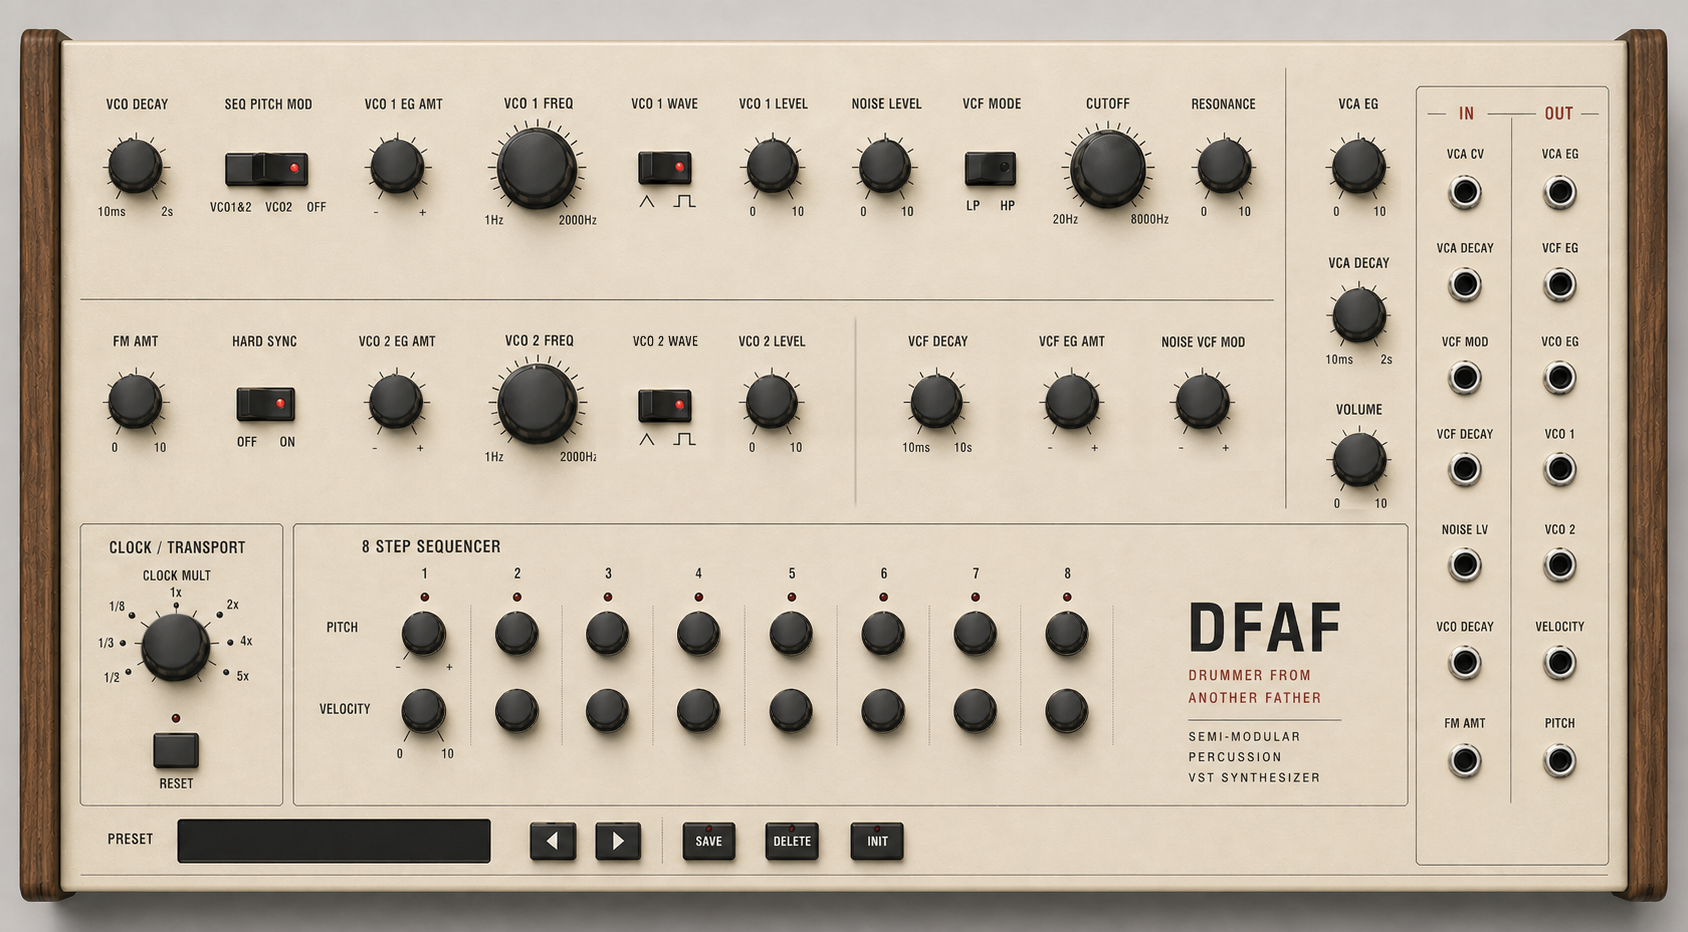
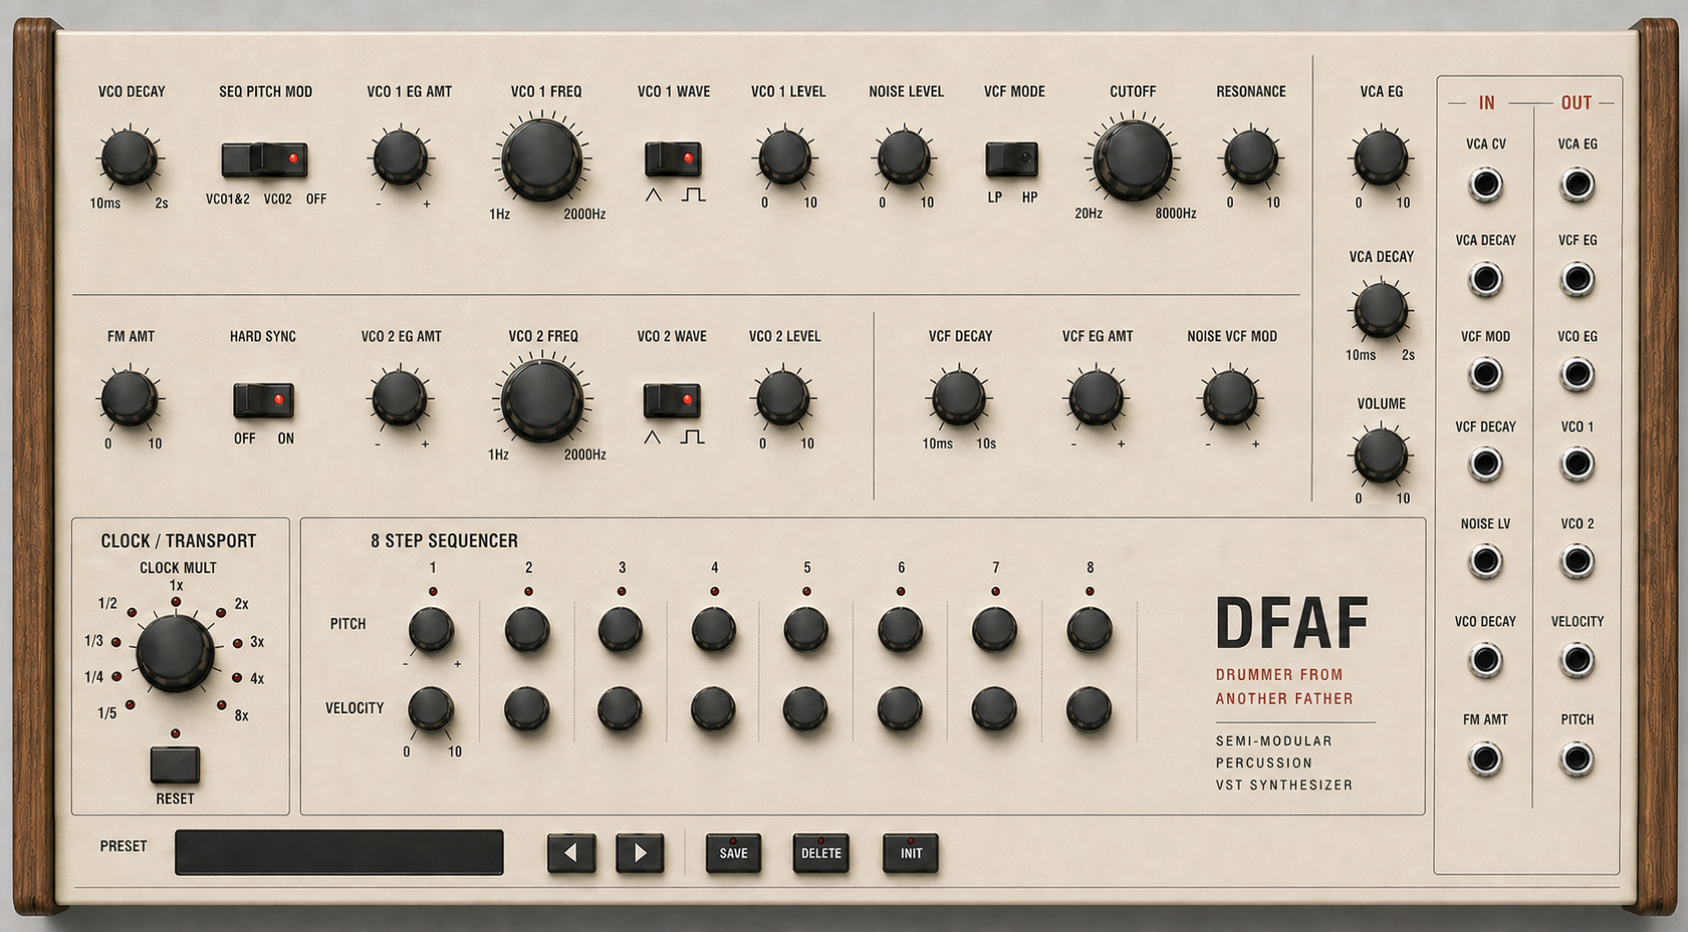
Fix updated panel control mapping

Changed region(s): [[0.0, 0.0, 1.0, 1.0], [0.2156, 0.5601, 0.3081, 0.5912]]

diff --git a/Source/PluginEditor.cpp b/Source/PluginEditor.cpp
@@ -224,7 +224,16 @@ void DFAFLookAndFeel::drawRotarySlider(juce::Graphics& g, int x, int y, int widt
 
     const float angle = rotaryStartAngle + sliderPos * (rotaryEndAngle - rotaryStartAngle);
     const float offset = (float) slider.getProperties().getWithDefault("panelIndicatorOffset", 0.0);
-    const float indicatorAngle = angle - juce::MathConstants<float>::halfPi + offset;
+    float indicatorAngle = angle - juce::MathConstants<float>::halfPi + offset;
+    if (slider.getProperties().getWithDefault("clockMultIndicator", false))
+    {
+        constexpr std::array<float, 9> clockMultDegrees {
+             133.0f, 161.0f, -167.0f, -136.0f, -90.0f,
+             -44.0f, -12.0f,   19.0f,   47.0f
+        };
+        const int index = juce::jlimit(0, 8, juce::roundToInt(slider.getValue()));
+        indicatorAngle = juce::degreesToRadians(clockMultDegrees[(size_t) index]);
+    }
     const float innerR = diameter * (float) slider.getProperties().getWithDefault("panelIndicatorInner", 0.08);
     const float outerR = diameter * (float) slider.getProperties().getWithDefault("panelIndicatorOuter", 0.28);
     const float lineWidth = (float) slider.getProperties().getWithDefault("panelIndicatorWidth", 3.0);
@@ -489,19 +498,13 @@ DFAFEditor::DFAFEditor(DFAFProcessor& p)
     };
     addAndMakeVisible(vcfModeButton);
 
-    clockMultBox.addItem("1/8", 1);
-    clockMultBox.addItem("1/5", 2);
-    clockMultBox.addItem("1/4", 3);
-    clockMultBox.addItem("1/3", 4);
-    clockMultBox.addItem("1/2", 5);
-    clockMultBox.addItem("1X", 6);
-    clockMultBox.addItem("2X", 7);
-    clockMultBox.addItem("3X", 8);
-    clockMultBox.addItem("4X", 9);
-    clockMultBox.addItem("5X", 10);
-    clockMultBox.setComponentID(kPanelControlId);
-    clockMultBox.onChange = [this]() { repaint(); };
-    addAndMakeVisible(clockMultBox);
+    setupKnob(clockMult);
+    clockMult.setRange(0.0, 8.0, 1.0);
+    clockMult.setDoubleClickReturnValue(true, 4.0);
+    clockMult.setMouseDragSensitivity(180);
+    clockMult.getProperties().set("panelIndicatorOuter", 0.33);
+    clockMult.getProperties().set("clockMultIndicator", true);
+    addAndMakeVisible(clockMult);
 
     for (int i = 0; i < 8; ++i)
     {
@@ -538,7 +541,7 @@ DFAFEditor::DFAFEditor(DFAFProcessor& p)
     vcaDecayAtt = std::make_unique<SliderAttachment>(apvts, "vcaDecay", vcaDecay);
     vcaEgAtt = std::make_unique<SliderAttachment>(apvts, "vcaEg", vcaEg);
     volumeAtt = std::make_unique<SliderAttachment>(apvts, "volume", volume);
-    clockMultBoxAtt = std::make_unique<juce::AudioProcessorValueTreeState::ComboBoxAttachment>(apvts, "clockMult", clockMultBox);
+    clockMultAtt = std::make_unique<SliderAttachment>(apvts, "clockMult", clockMult);
 
     for (int i = 0; i < 8; ++i)
     {
@@ -702,9 +705,9 @@ juce::Point<int> DFAFEditor::getJackCentre(PatchPoint pp) const
 {
     const auto inputs = inputOrder();
     const auto outputs = outputOrder();
-    constexpr std::array<float, 7> ys { 191.0f, 284.0f, 377.0f, 468.0f, 564.0f, 662.0f, 760.0f };
-    constexpr float inX = 1465.0f;
-    constexpr float outX = 1560.0f;
+    constexpr std::array<float, 7> ys { 183.0f, 278.0f, 373.0f, 463.0f, 560.0f, 659.0f, 758.0f };
+    constexpr float inX = 1486.0f;
+    constexpr float outX = 1577.0f;
 
     for (int i = 0; i < 7; ++i)
     {
@@ -982,23 +985,23 @@ void DFAFEditor::setupKnob(juce::Slider& s, bool small)
 void DFAFEditor::drawPanelSwitches(juce::Graphics& g) const
 {
     const int seqPitchModIndex = seqPitchModPanelIndex(seqPitchModBox.getSelectedItemIndex());
-    drawPanelToggle(g, mapPanelRect(225.0f, 153.0f, 83.0f, 34.0f).toFloat(),
+    drawPanelToggle(g, mapPanelRect(222.0f, 143.0f, 86.0f, 37.0f).toFloat(),
                     seqPitchModIndex, 3);
 
-    drawPanelToggle(g, mapPanelRect(639.0f, 152.0f, 53.0f, 33.0f).toFloat(),
+    drawPanelToggle(g, mapPanelRect(645.0f, 142.0f, 57.0f, 36.0f).toFloat(),
                     wavePanelIndex(vco1WaveBox.getSelectedItemIndex()), 2);
-    drawPanelToggle(g, mapPanelRect(965.0f, 153.0f, 51.0f, 33.0f).toFloat(),
+    drawPanelToggle(g, mapPanelRect(986.0f, 143.0f, 52.0f, 35.0f).toFloat(),
                     juce::jlimit(0, 1, vcfModeBox.getSelectedItemIndex()), 2);
 
-    drawPanelToggle(g, mapPanelRect(237.0f, 388.0f, 58.0f, 34.0f).toFloat(),
+    drawPanelToggle(g, mapPanelRect(234.0f, 383.0f, 60.0f, 36.0f).toFloat(),
                     juce::jlimit(0, 1, hardSyncBox.getSelectedItemIndex()), 2);
 
-    drawPanelToggle(g, mapPanelRect(638.0f, 389.0f, 55.0f, 34.0f).toFloat(),
+    drawPanelToggle(g, mapPanelRect(644.0f, 384.0f, 57.0f, 35.0f).toFloat(),
                     wavePanelIndex(vco2WaveBox.getSelectedItemIndex()), 2);
 
     if (resetLedActive)
     {
-        auto led = mapPanelRect(171.0f, 714.0f, 9.0f, 9.0f).toFloat();
+        auto led = mapPanelRect(171.0f, 729.0f, 9.0f, 9.0f).toFloat();
         g.setColour(kLedRed.withAlpha(0.28f));
         g.fillEllipse(led.expanded(5.0f));
         g.setColour(kLedRed);
@@ -1008,8 +1011,8 @@ void DFAFEditor::drawPanelSwitches(juce::Graphics& g) const
 
 void DFAFEditor::drawPresetDisplay(juce::Graphics& g) const
 {
-    auto screenArea = mapPanelRect(178.0f, 819.0f, 313.0f, 44.0f).toFloat();
-    auto textArea = mapPanelRect(202.0f, 824.0f, 270.0f, 31.0f).toFloat();
+    auto screenArea = mapPanelRect(175.0f, 830.0f, 329.0f, 45.0f).toFloat();
+    auto textArea = mapPanelRect(199.0f, 836.0f, 282.0f, 32.0f).toFloat();
     auto selectedId = presetBox.getSelectedId();
     if (selectedId == 0)
         selectedId = kPresetInitId;
@@ -1095,62 +1098,63 @@ void DFAFEditor::resized()
         slider.setBounds(mapPanelRect(cx - size * 0.5f, cy - size * 0.5f, size, size));
     };
 
-    setKnobCentre(vcoDecay, 136.0f, 169.0f, 62.0f);
-    vcoDecay.getProperties().set("panelIndicatorCentreX", -2.0);
-    vcoDecay.getProperties().set("panelIndicatorCentreY", -2.0);
-    setKnobCentre(vco1EgAmount, 398.0f, 169.0f, 62.0f);
-    vco1EgAmount.getProperties().set("panelIndicatorCentreX", -1.0);
-    setKnobCentre(vco1Frequency, 539.0f, 169.0f, 82.0f);
-    vco1Frequency.getProperties().set("panelIndicatorCentreX", -1.5);
+    setKnobCentre(vcoDecay, 132.5f, 160.0f, 62.0f);
+    vcoDecay.getProperties().set("panelIndicatorCentreX", 0.0);
+    vcoDecay.getProperties().set("panelIndicatorCentreY", 0.0);
+    setKnobCentre(vco1EgAmount, 399.0f, 159.5f, 62.0f);
+    vco1EgAmount.getProperties().set("panelIndicatorCentreX", 0.0);
+    setKnobCentre(vco1Frequency, 543.0f, 161.0f, 82.0f);
+    vco1Frequency.getProperties().set("panelIndicatorCentreX", 0.0);
     vco1Frequency.getProperties().set("panelIndicatorCentreY", 0.0);
-    setKnobCentre(vco1Level, 773.0f, 169.0f, 60.0f);
-    setKnobCentre(noiseLevel, 886.0f, 170.0f, 60.0f);
-    setKnobCentre(cutoff, 1110.0f, 170.0f, 78.0f);
-    setKnobCentre(resonance, 1225.0f, 169.0f, 62.0f);
-    setKnobCentre(vcaEg, 1360.0f, 170.0f, 62.0f);
+    setKnobCentre(vco1Level, 785.0f, 159.0f, 60.0f);
+    setKnobCentre(noiseLevel, 905.0f, 160.5f, 60.0f);
+    setKnobCentre(cutoff, 1134.0f, 165.0f, 78.0f);
+    setKnobCentre(resonance, 1252.0f, 160.5f, 62.0f);
+    setKnobCentre(vcaEg, 1381.5f, 160.5f, 62.0f);
 
-    setKnobCentre(fmAmount, 136.0f, 404.0f, 62.0f);
-    fmAmount.getProperties().set("panelIndicatorCentreX", -2.0);
-    fmAmount.getProperties().set("panelIndicatorCentreY", -2.0);
-    setKnobCentre(vco2EgAmount, 396.0f, 404.0f, 62.0f);
-    vco2EgAmount.getProperties().set("panelIndicatorCentreX", -1.0);
-    setKnobCentre(vco2Frequency, 540.0f, 405.0f, 82.0f);
-    vco2Frequency.getProperties().set("panelIndicatorCentreX", -1.5);
+    setKnobCentre(fmAmount, 130.0f, 400.5f, 62.0f);
+    fmAmount.getProperties().set("panelIndicatorCentreX", 0.0);
+    fmAmount.getProperties().set("panelIndicatorCentreY", 0.0);
+    setKnobCentre(vco2EgAmount, 399.5f, 400.0f, 62.0f);
+    vco2EgAmount.getProperties().set("panelIndicatorCentreX", 0.0);
+    setKnobCentre(vco2Frequency, 543.5f, 401.5f, 82.0f);
+    vco2Frequency.getProperties().set("panelIndicatorCentreX", 0.0);
     vco2Frequency.getProperties().set("panelIndicatorCentreY", 0.0);
-    setKnobCentre(vco2Level, 772.0f, 405.0f, 60.0f);
-    setKnobCentre(vcfDecay, 936.0f, 405.0f, 62.0f);
-    setKnobCentre(vcfEgAmount, 1074.0f, 404.0f, 62.0f);
-    setKnobCentre(noiseVcfMod, 1204.0f, 404.0f, 62.0f);
-    setKnobCentre(vcaDecay, 1360.0f, 317.0f, 62.0f);
+    setKnobCentre(vco2Level, 783.5f, 401.0f, 60.0f);
+    setKnobCentre(vcfDecay, 960.0f, 401.0f, 62.0f);
+    setKnobCentre(vcfEgAmount, 1096.5f, 400.5f, 62.0f);
+    setKnobCentre(noiseVcfMod, 1230.5f, 401.0f, 62.0f);
+    setKnobCentre(vcaDecay, 1381.5f, 313.5f, 62.0f);
 
-    setKnobCentre(volume, 1360.0f, 462.0f, 62.0f);
-    clockMultBox.setBounds(mapPanelRect(118.0f, 594.0f, 116.0f, 90.0f));
-    resetButton.setBounds(mapPanelRect(154.0f, 733.0f, 45.0f, 36.0f));
+    setKnobCentre(volume, 1381.5f, 458.0f, 62.0f);
+    setKnobCentre(clockMult, 176.0f, 656.5f, 88.0f);
+    resetButton.setBounds(mapPanelRect(151.0f, 747.0f, 49.0f, 37.0f));
 
-    seqPitchModBox.setBounds(mapPanelRect(225.0f, 153.0f, 83.0f, 66.0f));
+    seqPitchModBox.setBounds(mapPanelRect(222.0f, 143.0f, 86.0f, 76.0f));
     seqPitchModButton.setBounds(seqPitchModBox.getBounds());
-    vco1WaveBox.setBounds(mapPanelRect(639.0f, 152.0f, 53.0f, 73.0f));
+    vco1WaveBox.setBounds(mapPanelRect(645.0f, 142.0f, 57.0f, 83.0f));
     vco1WaveButton.setBounds(vco1WaveBox.getBounds());
-    vcfModeBox.setBounds(mapPanelRect(965.0f, 153.0f, 51.0f, 73.0f));
+    vcfModeBox.setBounds(mapPanelRect(986.0f, 143.0f, 52.0f, 83.0f));
     vcfModeButton.setBounds(vcfModeBox.getBounds());
-    hardSyncBox.setBounds(mapPanelRect(237.0f, 388.0f, 58.0f, 66.0f));
+    hardSyncBox.setBounds(mapPanelRect(234.0f, 383.0f, 60.0f, 71.0f));
     hardSyncButton.setBounds(hardSyncBox.getBounds());
-    vco2WaveBox.setBounds(mapPanelRect(638.0f, 389.0f, 55.0f, 71.0f));
+    vco2WaveBox.setBounds(mapPanelRect(644.0f, 384.0f, 57.0f, 76.0f));
     vco2WaveButton.setBounds(vco2WaveBox.getBounds());
 
-    constexpr std::array<float, 8> stepXs { 424.0f, 517.0f, 608.0f, 699.0f,
-                                            792.0f, 884.0f, 976.0f, 1067.0f };
+    constexpr std::array<float, 8> stepPitchXs { 431.5f, 527.0f, 620.5f, 713.5f,
+                                                 806.0f, 900.0f, 994.5f, 1089.5f };
+    constexpr std::array<float, 8> stepVelocityXs { 431.0f, 527.0f, 620.0f, 713.0f,
+                                                    805.0f, 900.0f, 994.5f, 1089.0f };
     for (int i = 0; i < 8; ++i)
     {
-        const float cx = stepXs[(size_t) i];
-        setKnobCentre(stepPitch[i], cx, 635.0f, 50.0f);
-        setKnobCentre(stepVelocity[i], cx, 712.0f, 50.0f);
+        setKnobCentre(stepPitch[i], stepPitchXs[(size_t) i], 631.5f, 50.0f);
+        setKnobCentre(stepVelocity[i], stepVelocityXs[(size_t) i], 711.0f, 50.0f);
     }
 
-    presetBox.setBounds(mapPanelRect(178.0f, 819.0f, 313.0f, 44.0f));
-    presetPrevButton.setBounds(mapPanelRect(530.0f, 823.0f, 47.0f, 38.0f));
-    presetNextButton.setBounds(mapPanelRect(596.0f, 822.0f, 45.0f, 39.0f));
-    presetSaveButton.setBounds(mapPanelRect(683.0f, 823.0f, 53.0f, 38.0f));
-    presetDeleteButton.setBounds(mapPanelRect(766.0f, 823.0f, 53.0f, 38.0f));
-    presetInitButton.setBounds(mapPanelRect(851.0f, 823.0f, 49.0f, 38.0f));
+    presetBox.setBounds(mapPanelRect(175.0f, 830.0f, 329.0f, 45.0f));
+    presetPrevButton.setBounds(mapPanelRect(548.0f, 834.0f, 48.0f, 39.0f));
+    presetNextButton.setBounds(mapPanelRect(616.0f, 834.0f, 48.0f, 39.0f));
+    presetSaveButton.setBounds(mapPanelRect(706.0f, 834.0f, 55.0f, 39.0f));
+    presetDeleteButton.setBounds(mapPanelRect(793.0f, 834.0f, 56.0f, 39.0f));
+    presetInitButton.setBounds(mapPanelRect(883.0f, 834.0f, 56.0f, 39.0f));
 }

diff --git a/Source/PluginProcessor.cpp b/Source/PluginProcessor.cpp
@@ -46,7 +46,7 @@ juce::AudioProcessorValueTreeState::ParameterLayout DFAFProcessor::createParamet
     params.push_back(std::make_unique<juce::AudioParameterFloat>("preTrim",     "Pre Trim",      0.1f,  2.0f,    0.84f));
     params.push_back(std::make_unique<juce::AudioParameterFloat>("volume",      "Volume",        0.0f,  1.0f,    0.8f));
     params.push_back(std::make_unique<juce::AudioParameterChoice>("clockMult", "Clock Multiplier",
-                juce::StringArray({ "1/8", "1/5", "1/4", "1/3", "1/2", "1x", "2x", "3x", "4x", "5x" }), 5));
+                juce::StringArray({ "1/5", "1/4", "1/3", "1/2", "1x", "2x", "3x", "4x", "8x" }), 4));
     for (int i = 0; i < 8; ++i)
         {
             params.push_back(std::make_unique<juce::AudioParameterFloat>(
@@ -556,8 +556,10 @@ void DFAFProcessor::processBlock(juce::AudioBuffer<float>& buffer, juce::MidiBuf
                 }
             }
 
-    int multIndex = (int)apvts.getRawParameterValue("clockMult")->load();
-            const float multTable[] = { 8.0f, 5.0f, 4.0f, 3.0f, 2.0f, 1.0f, 0.5f, 1.0f/3.0f, 0.25f, 0.2f };
+    int multIndex = juce::jlimit(0, 8, (int)apvts.getRawParameterValue("clockMult")->load());
+            const bool clockMultChanged = lastClockMultIndex >= 0 && multIndex != lastClockMultIndex;
+            lastClockMultIndex = multIndex;
+            const float multTable[] = { 5.0f, 4.0f, 3.0f, 2.0f, 1.0f, 0.5f, 1.0f/3.0f, 0.25f, 0.125f };
             float mult = multTable[multIndex];
             float ppqPerStep = 0.25f * mult;
     float cutoffVal   = apvts.getRawParameterValue("cutoff")->load();
@@ -636,6 +638,7 @@ void DFAFProcessor::processBlock(juce::AudioBuffer<float>& buffer, juce::MidiBuf
 
     auto* left  = buffer.getWritePointer(0);
     auto* right = buffer.getWritePointer(1);
+    bool clockMultChangePending = clockMultChanged;
 
     for (int i = 0; i < buffer.getNumSamples(); ++i)
     {
@@ -659,6 +662,18 @@ void DFAFProcessor::processBlock(juce::AudioBuffer<float>& buffer, juce::MidiBuf
                 sequencerStepOffset = (targetStep - hostStep + DFAFSequencer::numSteps) % DFAFSequencer::numSteps;
                 sequencerResetArmed = false;
                 lastStep = -1;
+            }
+
+            if (clockMultChangePending && !transportJustStarted && !sequencerResetArmed)
+            {
+                const int heldStep = sequencer.getCurrentStep();
+                if (heldStep >= 0)
+                {
+                    sequencerStepOffset = (heldStep - hostStep + DFAFSequencer::numSteps) % DFAFSequencer::numSteps;
+                    lastStep = heldStep;
+                }
+
+                clockMultChangePending = false;
             }
 
             wasHostPlaying = true;

diff --git a/Source/PluginEditor.h b/Source/PluginEditor.h
@@ -63,7 +63,7 @@ private:
     juce::Slider fmAmount, vco2EgAmount, vco2Frequency;
     juce::Slider vco2Level, vcfDecay, vcfEgAmount, noiseVcfMod, vcaDecay;
 
-    juce::ComboBox clockMultBox;
+    juce::Slider clockMult;
     juce::Slider stepPitch[8];
     juce::Slider stepVelocity[8];
     juce::ComboBox vco1WaveBox, vco2WaveBox, vcfModeBox;
@@ -115,7 +115,7 @@ private:
     std::unique_ptr<SliderAttachment> noiseLevelAtt, cutoffAtt, resonanceAtt;
     std::unique_ptr<SliderAttachment> vcfDecayAtt, vcfEgAmtAtt, noiseVcfModAtt;
     std::unique_ptr<SliderAttachment> vcaDecayAtt, vcaEgAtt, volumeAtt;
-    std::unique_ptr<juce::AudioProcessorValueTreeState::ComboBoxAttachment> clockMultBoxAtt;
+    std::unique_ptr<SliderAttachment> clockMultAtt;
     std::unique_ptr<SliderAttachment> stepPitchAtt[8], stepVelAtt[8];
 
     JUCE_DECLARE_NON_COPYABLE_WITH_LEAK_DETECTOR(DFAFEditor)

diff --git a/Source/PluginProcessor.h b/Source/PluginProcessor.h
@@ -117,6 +117,7 @@ public:
     // Sequencer clock state
     int  lastStep            = -1;
     int  sequencerStepOffset = 0;
+    int  lastClockMultIndex  = -1;
     bool wasHostPlaying      = false;
     bool sequencerResetArmed = true;
     std::atomic<bool> sequencerResetPending { false };
